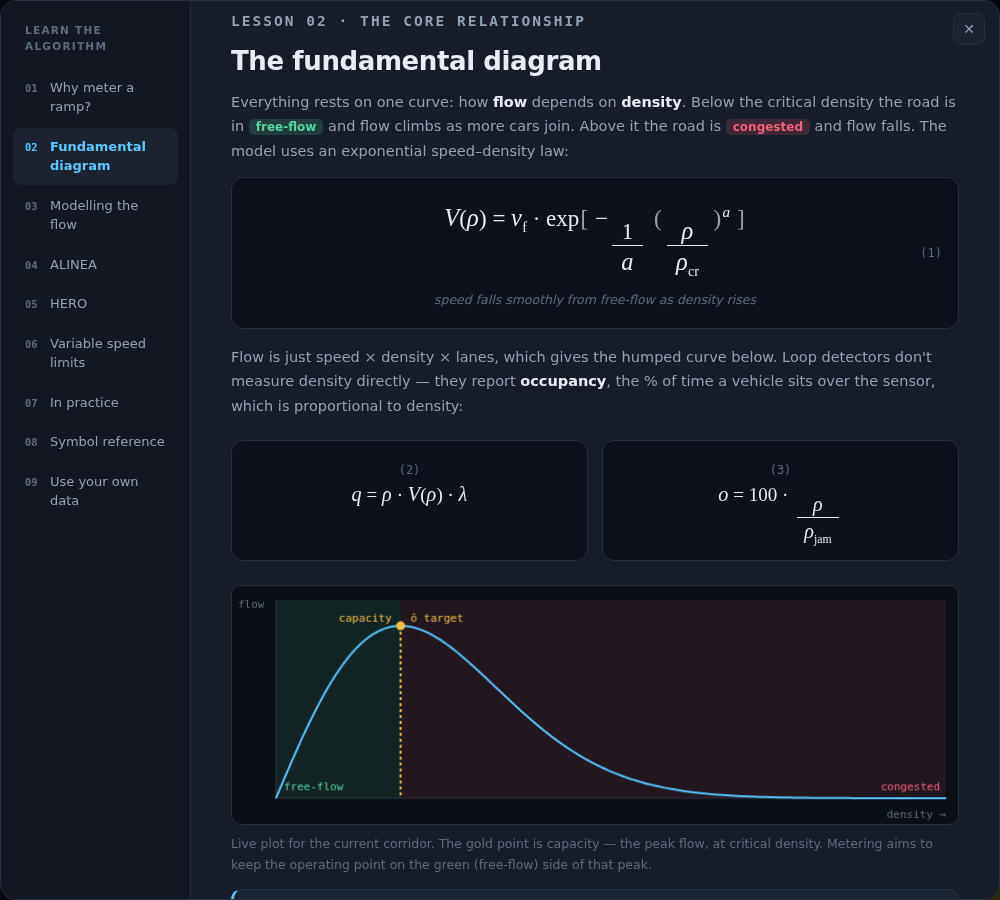
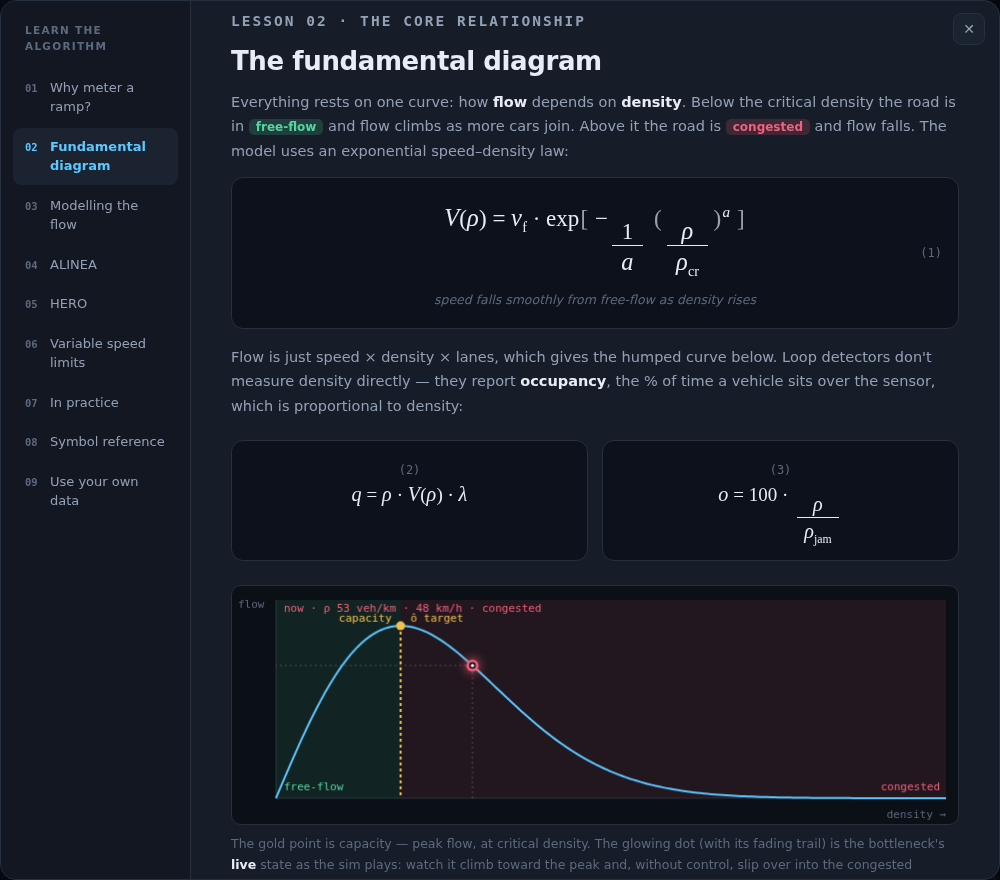
Add a live operating point to the fundamental diagram
While the "Learn the algorithm" modal is open, the fundamental-diagram plot
now shows the bottleneck's current state as a glowing point (with a fading
trail) that rides the curve at the live density and re-draws every frame.
It uses the active scenario's colour, so no control visibly slides past the
peak into the congested branch while HERO holds it near capacity. Playback
auto-resumes when the modal opens if it had finished.

diff --git a/simulator/static/simulator/app.js b/simulator/static/simulator/app.js
@@ -437,6 +437,7 @@ function renderFrame(){
   drawMini("c-speed", k=>DATA.results[k].mean_speed_t,{});
   drawMini("c-queue", k=>DATA.results[k].total_ramp_q,{});
   drawHeat();
+  if(!document.getElementById("info-modal").classList.contains("hidden")) drawFD();
   const R=DATA.results[scnKey()], fi=frameIdx();
   const g=(id,v)=>document.getElementById(id).textContent=v;
   g("ro-speed", R.mean_speed_t[fi].toFixed(0)+" km/h");
@@ -473,6 +474,8 @@ function togglePlay(on){
 function openInfo(sectionId){
   const m=document.getElementById("info-modal");
   m.classList.remove("hidden");
+  // if playback has finished, restart it so the operating point animates
+  if(DATA && !playing && frame >= DATA.results[scnKey()].t.length-1){ togglePlay(true); }
   drawFD();
   if(sectionId){
     const el=document.getElementById(sectionId);
@@ -530,6 +533,39 @@ function drawFD(){
   ctx.textAlign="left";  ctx.fillText("ô target", cx+10, cy-4);
   ctx.fillStyle="#54d6a0"; ctx.textAlign="left"; ctx.fillText("free-flow", pad.l+8, pad.t+ih-8);
   ctx.fillStyle="#f2607a"; ctx.textAlign="right"; ctx.fillText("congested", pad.l+iw-6, pad.t+ih-8); ctx.textAlign="left";
+
+  // --- live operating point: bottleneck segment, current frame & scenario ---
+  if(DATA){
+    const R=DATA.results[scnKey()], bs=DATA.meta.bottleneck_seg, fi=frameIdx();
+    const col=COLORS[control]||"#5cc8ff";
+    const px=r=>Math.max(pad.l,Math.min(pad.l+iw,X(r)));
+    const py=q=>Math.max(pad.t,Math.min(pad.t+ih,Y(q)));
+    // The dot rides the equilibrium curve at the live density, so it always
+    // reads as a point ON the fundamental diagram (dynamic speed overshoots
+    // would otherwise float it above capacity during transitions).
+    // fading trail over the last ~30 frames (≈5 min of model time)
+    for(let i=Math.max(0,fi-30);i<fi;i++){
+      const rho=R.seg_rho[i][bs];
+      ctx.globalAlpha=Math.max(0,0.05+0.45*(i-(fi-30))/30);
+      ctx.fillStyle=col; ctx.beginPath(); ctx.arc(px(rho),py(rho*V(rho)),1.8,0,7); ctx.fill();
+    }
+    ctx.globalAlpha=1;
+    // current state
+    const rho=R.seg_rho[fi][bs], v=R.seg_v[fi][bs];
+    const x=px(rho), y=py(rho*V(rho));
+    ctx.setLineDash([2,3]); ctx.strokeStyle="rgba(232,237,245,.25)"; ctx.lineWidth=1;
+    ctx.beginPath(); ctx.moveTo(x,pad.t+ih); ctx.lineTo(x,y); ctx.lineTo(pad.l,y); ctx.stroke();
+    ctx.setLineDash([]);
+    ctx.shadowColor=col; ctx.shadowBlur=11;
+    ctx.fillStyle=col; ctx.beginPath(); ctx.arc(x,y,6,0,7); ctx.fill();
+    ctx.shadowBlur=0;
+    ctx.fillStyle="#0b0f16"; ctx.beginPath(); ctx.arc(x,y,3.3,0,7); ctx.fill();
+    ctx.fillStyle="#fff"; ctx.beginPath(); ctx.arc(x,y,1.6,0,7); ctx.fill();
+    // live readout, top-left of the plot
+    ctx.fillStyle=col; ctx.font=MONO; ctx.textAlign="left";
+    const side = rho>rc ? "congested" : "free-flow";
+    ctx.fillText("now · ρ "+rho.toFixed(0)+" veh/km · "+v.toFixed(0)+" km/h · "+side, pad.l+8, pad.t+12);
+  }
 }
 
 /* ------------------------------------------------------------ CSV upload */

diff --git a/simulator/templates/simulator/index.html b/simulator/templates/simulator/index.html
@@ -239,9 +239,10 @@
         </div>
 
         <canvas id="fd-canvas" class="fd-canvas"></canvas>
-        <p class="cap">Live plot for the current corridor. The gold point is capacity —
-        the peak flow, at critical density. Metering aims to keep the operating point on
-        the green (free-flow) side of that peak.</p>
+        <p class="cap">The gold point is capacity — peak flow, at critical density. The
+        glowing dot (with its fading trail) is the bottleneck's <b>live</b> state as the
+        sim plays: watch it climb toward the peak and, without control, slip over into the
+        congested branch. Switch scenarios to compare.</p>
 
         <div class="worked">
           <span class="worked-h">Worked example · where is capacity?</span>
